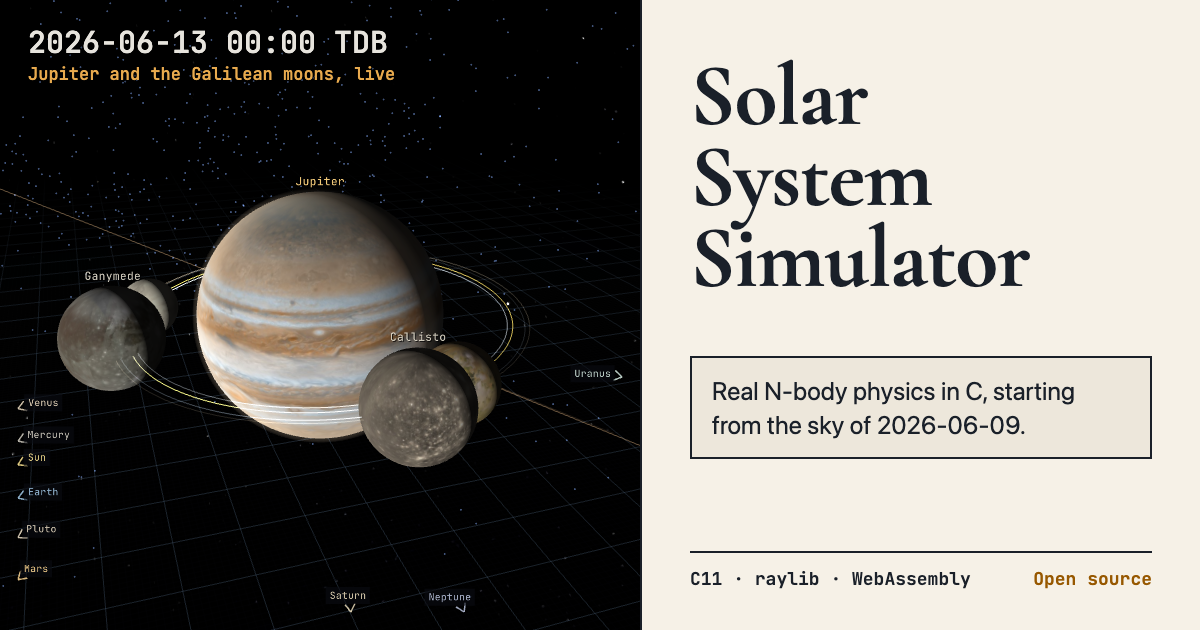
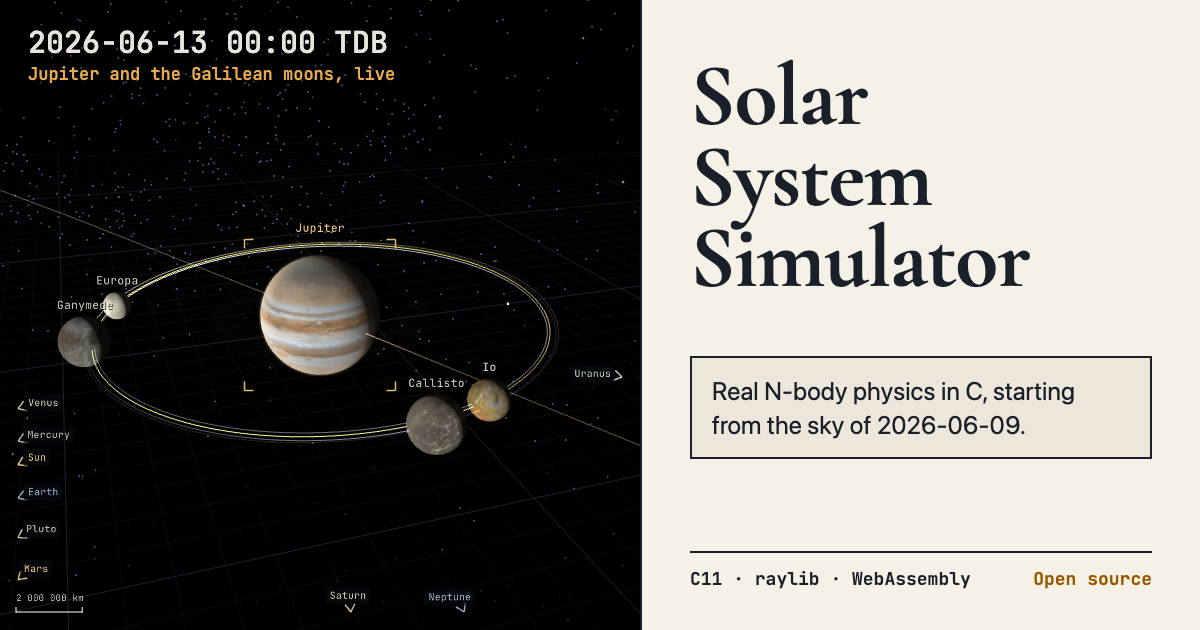
Polish the notebook pages: grouped catalog, lesson stills, About figure
Catalog groups its 474 rows into collapsible sections by system, with
sticky column headers, filters that open matching sections, anchors that
open their section, and correct scene names (17,736 -> 1,531 px tall).
Learn shows a still of each lesson running (tools/lesson_previews.mjs).
About opens with a figure of the live scene, a rendering glossary and a
To/Do controls table, and folds the contributor Code table (A129).

Changed region(s): [[0.0308, 0.2714, 0.4625, 0.754], [0.0, 0.9349, 0.0617, 1.0], [0.0, 0.3016, 0.0308, 0.3317]]

diff --git a/docs/public/styles/global.css b/docs/public/styles/global.css
@@ -80,6 +80,36 @@ th { font: 600 0.75rem/1.4 var(--mono); letter-spacing: 0.04em; text-transform: 
 td.num, th.num { text-align: right; font-family: var(--mono); font-variant-numeric: tabular-nums; }
 html.notebook tr:target { background: oklch(90% 0.06 85); }
 
+/* About (A129): a figure of the instrument, a glossary, a folded table. */
+.figure { margin: 1.25rem 0 0.5rem; }
+.figure img { display: block; width: 100%; height: auto; border: 1px solid var(--ink); background: var(--space); }
+.figure figcaption { margin-top: 0.4rem; font-size: 0.875rem; color: var(--ink-2); }
+.glossary { display: grid; grid-template-columns: 8.5rem minmax(0, 1fr); gap: 0.45rem 1rem; margin: 0.75rem 0; max-width: var(--measure); }
+.glossary dt { font: 600 0.8125rem var(--mono); padding-top: 0.15rem; }
+.glossary dd { margin: 0; }
+.fold summary { cursor: pointer; font: 600 0.875rem var(--mono); color: var(--amber-ink); padding: 0.35rem 0; }
+.controls td:first-child { white-space: nowrap; font-weight: 600; }
+@media (max-width: 760px) { .glossary { grid-template-columns: 1fr; gap: 0.1rem; } .glossary dd { margin-bottom: 0.45rem; } }
+
+/* Catalog (A129): one collapsible section per system. */
+.catalog-section { border-top: 1px solid var(--rule); }
+.catalog-section:last-of-type { border-bottom: 1px solid var(--rule); }
+.catalog-section summary { display: flex; align-items: baseline; gap: 0.6rem; padding: 0.7rem 0; cursor: pointer; list-style: none; }
+.catalog-section summary::-webkit-details-marker { display: none; }
+.catalog-section summary::before { content: "+"; flex: none; width: 1rem; font: 600 1rem var(--mono); color: var(--ink-2); }
+.catalog-section[open] summary::before { content: "−"; }
+.section-title { font: 600 1.25rem var(--serif); }
+.section-count { font: 0.8125rem var(--mono); font-variant-numeric: tabular-nums; color: var(--ink-2); }
+.catalog-section summary:hover .section-title { color: var(--amber-ink); }
+.catalog-section .table-wrap { margin-bottom: 1rem; }
+html.notebook .catalog-section tbody tr:hover { background: oklch(93% 0.02 85); }
+@media (min-width: 761px) {
+  /* Column headers stay in view through a long section (sticky needs the
+   * wrapper not to clip, which wide screens never need). */
+  .catalog-section .table-wrap { overflow: visible; }
+  .catalog-section thead th { position: sticky; top: 0; background: var(--paper); z-index: 1; }
+}
+
 /* Forms and buttons. */
 html.notebook input, html.notebook select { padding: 0.35rem 0.5rem; border: 1px solid var(--rule); background: #fff; color: var(--ink); min-height: 2.25rem; }
 .button, html.notebook button { display: inline-flex; align-items: center; gap: 0.4rem; min-height: 2.25rem; padding: 0.3rem 0.85rem; border: 1px solid var(--ink); background: transparent; color: var(--ink); cursor: pointer; font: 600 0.8125rem var(--mono); text-decoration: none; }
@@ -89,10 +119,14 @@ label { display: inline-flex; flex-direction: column; gap: 0.2rem; font-size: 0.
 
 /* Lessons list (Learn). */
 .lessons { margin: 1rem 0; padding: 0; list-style: none; border-top: 1px solid var(--rule); }
-.lessons li { display: grid; grid-template-columns: minmax(0, 1fr) auto; gap: 0.25rem 1rem; align-items: center; max-width: none; padding: 0.8rem 0; border-bottom: 1px solid var(--rule); }
+.lessons li { display: grid; grid-template-columns: 9rem minmax(0, 1fr) auto; gap: 0.25rem 1rem; align-items: center; max-width: none; padding: 0.8rem 0; border-bottom: 1px solid var(--rule); }
+/* A129: a still of the lesson running, the instrument's dark against paper. */
+.lesson-preview { grid-column: 1; grid-row: 1 / span 2; display: block; line-height: 0; }
+.lesson-preview img { width: 100%; height: auto; aspect-ratio: 8 / 5; object-fit: cover; background: var(--space); border: 1px solid var(--ink); }
 .lessons strong { font-family: var(--serif); font-size: 1.2rem; font-weight: 600; }
-.lessons p { grid-column: 1; margin: 0; font-size: 0.9375rem; color: var(--ink-2); }
-.lessons .button { grid-column: 2; grid-row: 1 / span 2; }
+.lessons strong { grid-column: 2; }
+.lessons p { grid-column: 2; margin: 0; font-size: 0.9375rem; color: var(--ink-2); }
+.lessons .button { grid-column: 3; grid-row: 1 / span 2; }
 
 /* Instrument: the canvas fills the viewport below the header. */
 html.instrument, html.instrument body { height: 100%; overflow: hidden; }
@@ -180,8 +214,10 @@ html.instrument main { position: relative; flex: 1; min-height: 0; }
   .site-header { padding: 0.5rem 0.75rem; }
   .site-header nav { gap: 0.7rem; }
   html.notebook main { padding: 1.25rem 1rem 2rem; }
-  .lessons li { grid-template-columns: 1fr; }
-  .lessons .button { grid-column: 1; grid-row: auto; justify-self: start; }
+  .lessons li { grid-template-columns: 6.5rem minmax(0, 1fr); align-items: start; }
+  .lessons .lesson-preview { grid-column: 1; grid-row: 1 / span 3; }
+  .lessons strong, .lessons p { grid-column: 2; grid-row: auto; }
+  .lessons .button { grid-column: 2; grid-row: auto; justify-self: start; }
   .sheet { width: 100%; max-width: none; margin: auto 0 0; max-height: 75dvh; }
   .sheet.popover { inset: auto 0 0 0; width: 100%; }
 }

diff --git a/SPEC.md b/SPEC.md
@@ -481,6 +481,7 @@ A125|Scale morph: switching between illustrative and real scale blends every dra
 A126|Neptune's and Jupiter's rings join Uranus's in one table-driven ring-system model (NASA NSSDC ring fact sheets): Neptune's Galle, Le Verrier, Lassell and Adams rings (the Adams arcs and Arago, which has no depth, are not modelled), Jupiter's halo, main and Amalthea/Thebe gossamer rings. The illustrative strip now sets opacity by optical depth, 0.12 (log10 τ + 7.5), times 0.35 for rings wider than two texels, within [0.03, 0.85] (Uranus's narrow rings stay lines; broad dusty rings stay ghostly). Framing and moon clearance use each system's main extent (Jupiter's main ring, since Amalthea and Thebe orbit inside their own gossamer rings). Jupiter's rings are barely visible in 2026 when lit from the viewer's side, because sunlight grazes their plane (3° obliquity); they glow when backlit (A127)|`test_scene_style` (every table's integrated opacity, every ring visible in illustrative scale, Jupiter far fainter than Adams, gaps empty), `test_renderer` (Uranian, Neptunian and Galilean moons outside the drawn rings), screenshots
 A127|Forward scattering in the ring shader: a Henyey–Greenstein lobe (g = 0.7) weighted by each ring system's dust fraction (Jupiter 0.95, Neptune 0.5, Uranus 0.05, Saturn's main rings 0.05; approximate, from Voyager and Galileo photometry) brightens rings seen toward the Sun and raises their drawn opacity accordingly, since a dusty ring's brightness comes from optical depth along the light path. Jupiter's rings, near invisible when lit from the viewer's side (A126), glow when backlit as in the Galileo images; Jupiter's shadow cuts them|`test_scene_style` (dust fractions ordered and in range), `make test-native-shaders`, front-lit and backlit screenshots
 A128|View panel (Jonathan: "UX better"): non-modal, anchored above the dock's right end (a bottom sheet on phones), so the scene stays visible and usable while settings change; the View button toggles it (`aria-expanded`) and Escape closes it, returning focus. Grouped as Scale (Illustrative / Real) and Trails around (Parent / Sun) segmented controls, Show switches (Orbits, Asteroids, Constellations, Labels, Grid, Vectors) and Camera (Rotate and Follow switches, zoom − / +). On/off controls are `role="switch"` buttons with fixed names and `aria-checked`, drawn as a solid track and knob (no gradients); the native Rotate checkbox is gone. The scene-loaded note clears after 6 s|docs unit tests (switch state), browser journey (non-modal, segmented, switches, Escape and focus), existing toggle journeys moved to switches, word-count check, desktop and phone screenshots
+A129|Notebook pages (Jonathan: "on the website side as well"): Catalog groups its 474 rows into collapsible sections by system (Sun, planets and small worlds open; each planet's moons collapsed with a count), with column headers that stay in view on wide screens; filters open matching sections and hide empty ones, `#slug` links open their row's section, and the scene column names the scene (Didymos and Patroclus said "Sun"). Desktop height 17,736 → 1,531 px, phone 28,935 → 1,958 px. Learn shows a still of each lesson running (`tools/lesson_previews.mjs`, 12 JPEGs, 164 KB, decorative; Run stays the one link). About opens with a figure of the live scene (`about-view.jpg`, from `tools/site_images.mjs`), turns Rendering into a glossary and Controls into a "To / Do" table, and folds the contributor-facing Code table|route checks (every body once, anchored and linked), catalog and lesson browser journeys, desktop and phone screenshots
 A110|Look: the sky backdrop uses a squared contrast curve (no JPEG grain between stars); the Sun's disc centre runs toward white with an orange limb and a second, wide glare layer; bodies with air get limb darkening and a warm dusk band at the terminator (long air paths scatter blue away); lit colours roll off through a soft shoulder above 0.8 instead of clipping; the reference grid is about half as bright|`make test-native-shaders`, screenshots
 
 Result: all scenes hold 60 fps in desktop Chrome; on the Pixel 7 profile at 4x CPU throttle the main scene, Jupiter family and Saturn family hold 60 fps (the Saturn family fell to 44 fps with full-detail guides; 10 px chords, half detail for faint guides and skipping the spreading test for distant orbits restored it).
@@ -595,6 +596,7 @@ T103|x|animated morph between illustrative and real scale|A125
 T104|x|Neptune's and Jupiter's rings from the NSSDC tables|A126
 T105|x|forward-scattering glow for dusty rings|A127
 T106|x|non-modal View panel with switches and segmented controls|A128
+T107|x|notebook pages: grouped catalog, lesson previews, About figure, glossary and controls table|A129
 
 Audit remediation verification, 2026-10-06: delivered through PRs #20, #21, #22, #24, #25 (round 1), #26 (main CI/analytics blocker found by round 2) and #27 (round 2), each rebase-merged after the required Build/CodeQL checks passed and every review thread was resolved. Production Pages served 81eb308 after #26 with CSP, Astro generator marker, generated sitemap and no robots.txt verified on the live site. Locally, round 2 passed `make clean && make test-sanitize`, `make && make test test-build test-cli test-validators`, catalog/command/epoch/Jovian/small-body checks, a fresh raylib WASM build with native/WASM replay of every example, `npm ci`/`npm audit`/37 Node tests/`astro check`/build, route checks, and 17/17 sandboxed Chrome journeys for both analytics-free and `PUBLIC_GA_ID` builds. The second audit's Medium findings (main CI red, experiment Earth-centre start, debug-info WASM, duplicate SPEC IDs, PR-only workflow docs, invisible catalog download) are closed. Remaining Low/Info items are recorded rather than changed: Jonathan later chose Renovate over Dependabot (A63) and asked for every non-main branch to be deleted; CI stays Linux-only and the browser lane stays on Ubuntu 22.04 per R13; browser specs are type-checked by Playwright, not `astro check` (adding `@types/node` was deferred); GA consent policy remains V17; the pre-existing desktop atlas Vesta/Uranus label overlap, Saturn's illustrative ring tilt and literal Jupiter–Neptune masses (V6 scopes GM-derived masses to Sun–Mars) are unchanged.
 

diff --git a/AGENTS.md b/AGENTS.md
@@ -116,6 +116,7 @@ solar-system-simulator/
 - Web controls call the C command boundary in `src/main.c`. Keep numeric command IDs aligned with `runtimeCommands` in `docs/src/lib/simulator.ts` (`tools/check_catalog.mjs` fails on any mismatch); the C scene populates the body selector.
 - Parent-relative trail and vector controls are renderer-only. Use synchronized parent samples and subtract in double precision. Vector glyph lengths are illustrative, even when their directions come from SI state.
 - Build, CLI, sanitizer and validator entrypoints are `make test-build test-cli test-sanitize test-validators`. On macOS, `make test-native-shaders` renders Earth offscreen through the real GLSL 330 shaders and maps (the CI macOS job runs it with `make test`); use it after shader edits because a native window cannot always be opened from an agent sandbox. Cross-check the C/TypeScript core catalog with `node tools/check_catalog.mjs` after `make headless`.
+- Learn's lesson stills (`docs/public/lessons/*.jpg`) are rendered by `node tools/lesson_previews.mjs <served base URL>`, and About's figure (`docs/public/about-view.jpg`) by `tools/site_images.mjs`; regenerate them when the instrument's look changes.
 - Link previews and icons: `docs/public/social-preview.png` (og:image, 1200×630) and the icon set are rendered by `node tools/site_images.mjs <served base URL>` from a deterministic simulator frame and the hand-written `docs/public/favicon.svg` (static shapes only; `make docs-check` rejects scripts, handlers or links in it). Regenerate them when the instrument's look changes, then rebuild the site before `make docs-check` (it reads `docs/dist/`). The capture steps to exactly 345,600 simulated seconds using the clock's `data-seconds`.
 - Orbit guides (SPEC A107) are the osculating two-body ellipse about each body's parent, recomputed from SI state every frame in `draw_orbit_guides` (math in `render_orbit_guide*`, `scene_style.*`). Keep them presentation only, keep the vertex on the body and the illustrative spreading identical to `renderer_body_position`, and re-measure the Saturn family on the throttled phone after touching their detail budget. Default trails are parent-relative.
 - Moon maps (A109) are USGS public-domain mosaics regenerated by `python3 tools/moon_maps.py [--refresh]` (sources cached in ignored `build/moon-maps/`). A mapped body needs an IAU rotation model; `test_tidally_locked_maps_face_their_parent` checks orientation against the real sky.
